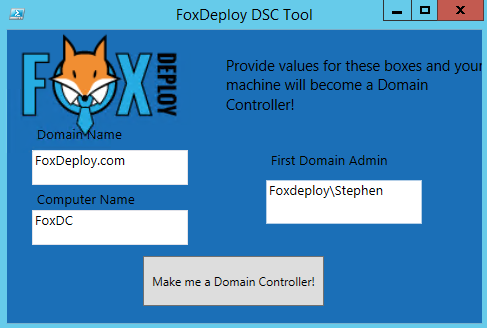
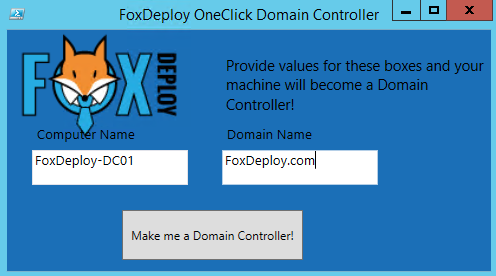
Completed post, cleaned up GUI

Changed region(s): [[0.0, 0.0, 1.0, 0.9855], [0.4312, 0.1739, 0.9856, 0.4058], [0.4312, 0.4638, 0.8932, 0.6957]]

diff --git a/readme.md b/readme.md
@@ -33,8 +33,13 @@ Stop-DSCConfiguration -Force
 #Resume so we can watch it
 Start-DscConfiguration -ComputerName localhost -Wait -Force -Verbose -UseExisting
 
-You may run into an error, specifically w/ the computername module.  I'm not sure what the issue here, as the system seems to be renamed, but you can safely ignore it. 
+Now, if you diverged from using my copy of the DSC resources, you may run into an error, specifically w/ the computername module, around specifying a name for a Computer, without specifying a domain name.  This is an open issue in GitHub right now, so hopefully the problem will be resolved soon, but for now, the copy you'll get w/ this blog post has the proposed fix to the issue.
 
 And...we're done when we see this screen!
 
-So, not a lot of meat to this one, but I hope this clears up the questions people were asking about how to use this 'OneClick Domain Controller'
+<img class="alignnone wp-image-2172 size-large" src="https://raw.githubusercontent.com/1RedOne/DSC_OneClick-DomainController/master/postImg/NewDomain.png" alt="IntroToDsc"/>
+
+
+So, I hope this clears up the questions people were asking about how to use this 'OneClick Domain Controller'.
+
+My next plan is to add SQL support and the prerequisites for SCCM.  And then we'll work up to a one-click ConfigMgr install!
